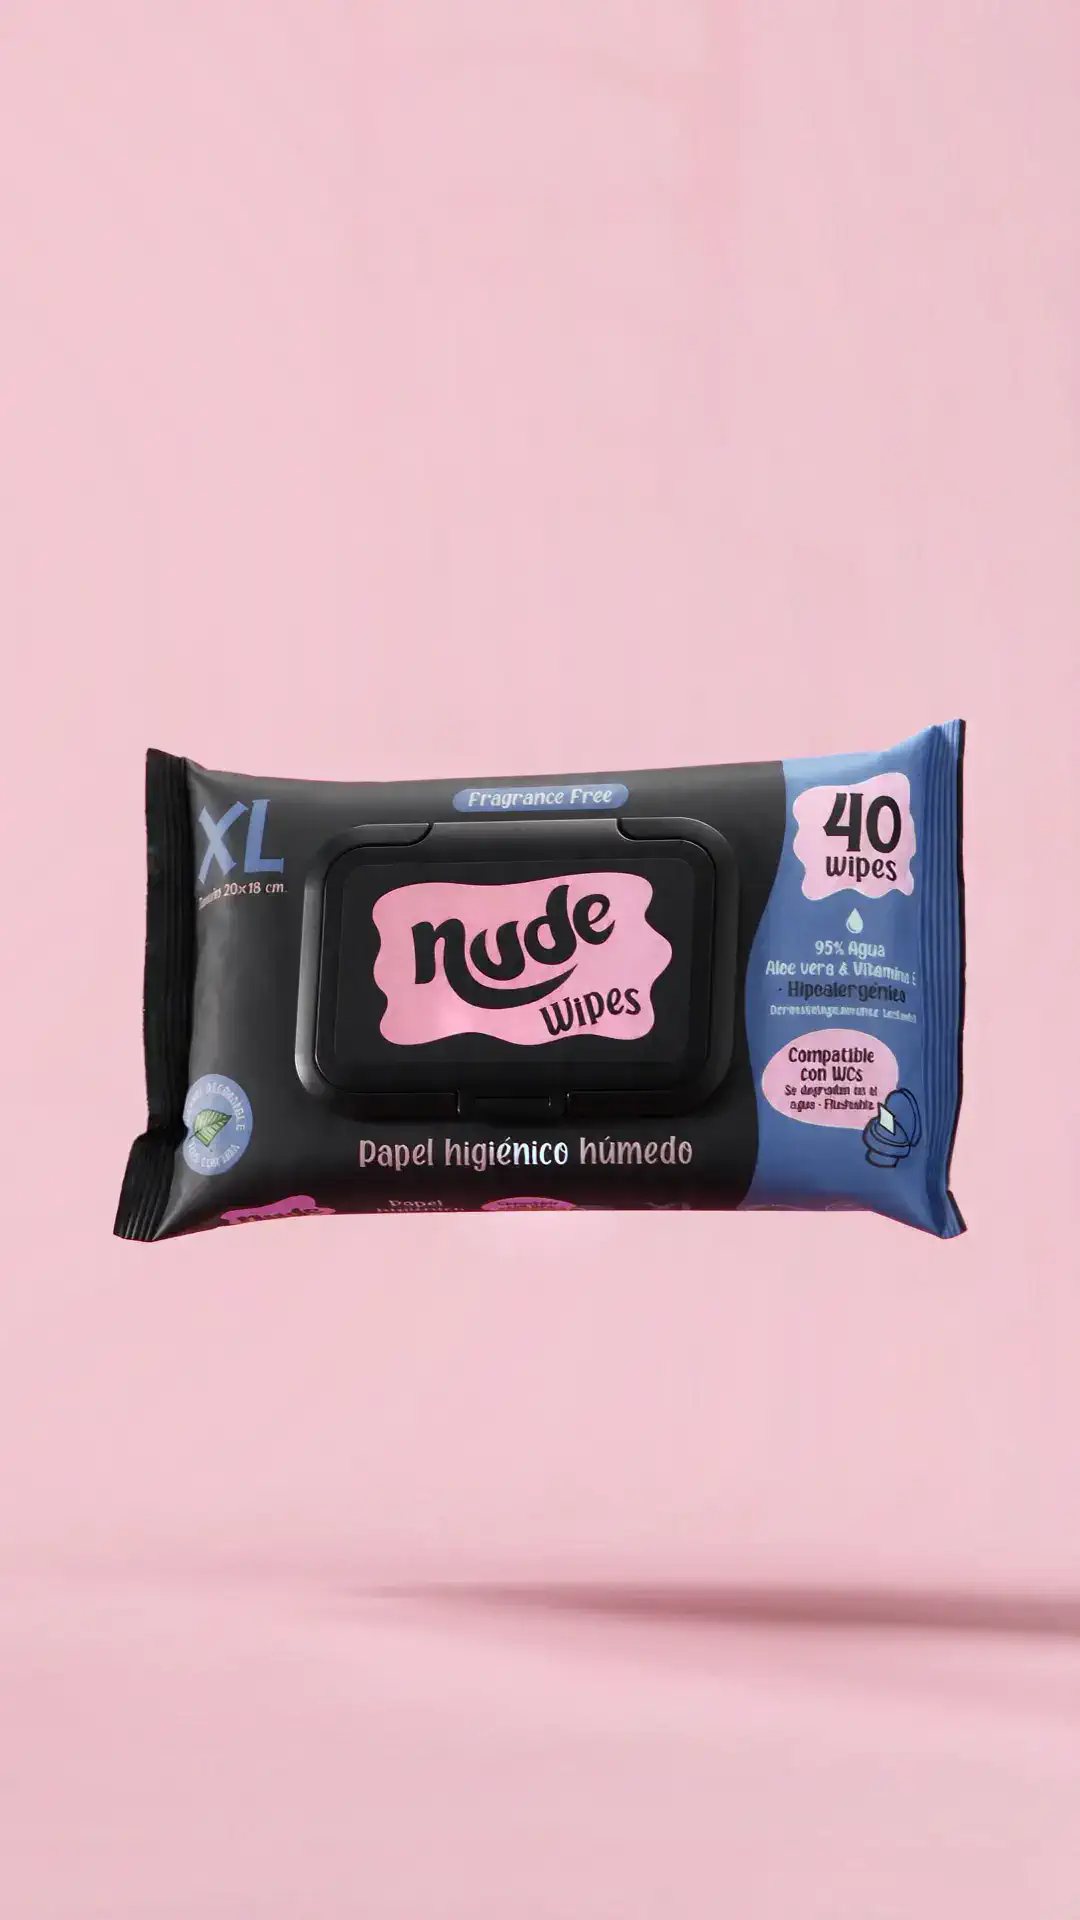
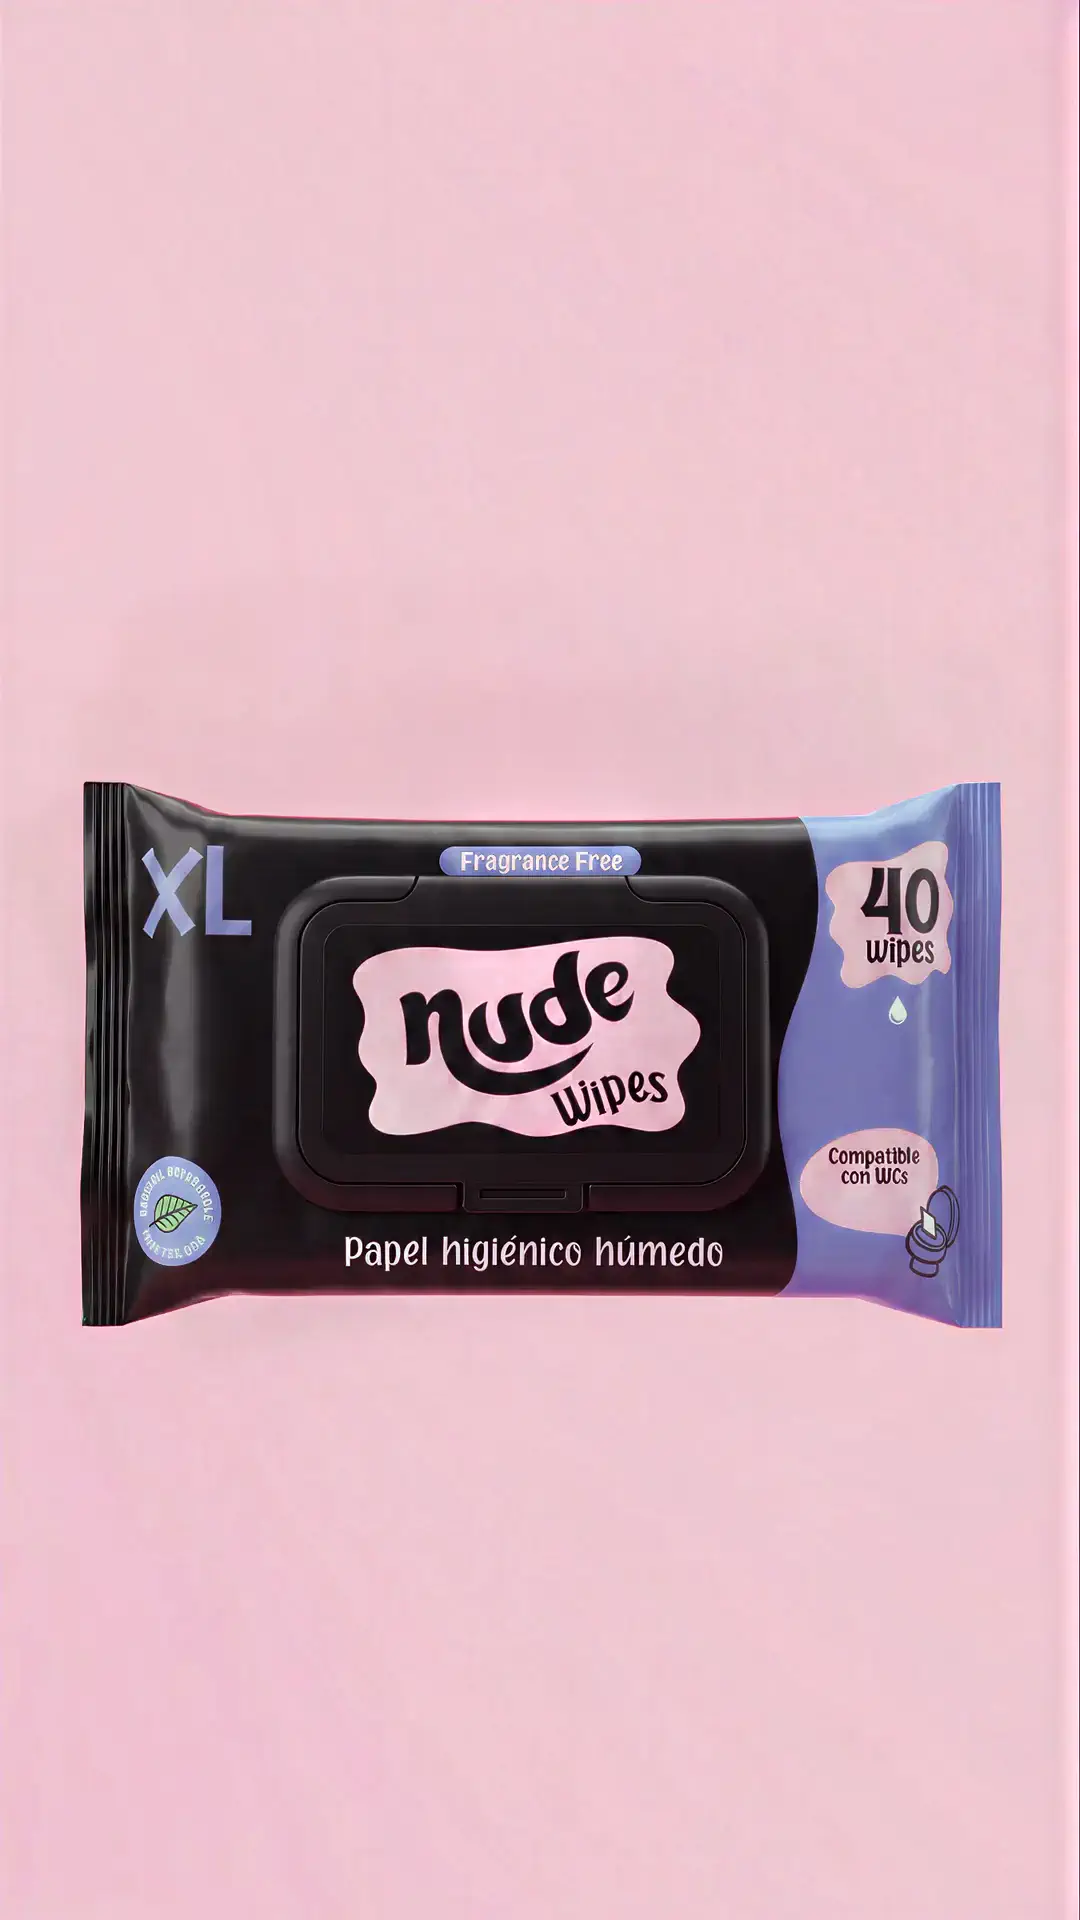
El póster del hero deja de mostrar un frame del video viejo
Charlie veía un frame de otro clip en cada recarga. El hero no arranca con
el canvas: primero muestra public/hero-poster.webp, que es el LCP y va
precargado. Ese archivo era del 28 de agosto, o sea del clip anterior, y
nadie lo regeneró al cambiar a nude9. Ahora sale del frame 1 de la secuencia
actual, ya corregido de color.

Y de paso, un bug más grave que salió buscando este. El póster se referenciaba
con ruta absoluta, /hero-poster.webp, que en un project page de GitHub Pages
apunta a la raíz del dominio y no a la del repo. Comprobado contra el sitio
publicado: charlie-pixelz.github.io/hero-poster.webp da 404 y
charlie-pixelz.github.io/nude-landing/hero-poster.webp da 200. O sea que en
producción el póster nunca cargaba y la precarga se gastaba en un 404,
mientras en localhost las dos rutas funcionan — que es exactamente por lo que
no se notó, y exactamente lo que CLAUDE.md advierte sobre este tema. El logo
tenía el mismo problema. Las dos pasan a relativas y el build ya sale con
./hero-poster.webp.

diff --git a/index.html b/index.html
@@ -6,14 +6,14 @@
   <title>NUDE · Papel higiénico húmedo · Chile</title>
   <meta name="description" content="Papel higiénico húmedo, se degrada en el agua. Ya está en Jumbo.">
   <meta name="robots" content="noindex">
-  <link rel="preload" as="image" href="/hero-poster.webp" fetchpriority="high">
+  <link rel="preload" as="image" href="./hero-poster.webp" fetchpriority="high">
 </head>
 <body>
 
 <header class="nav" id="nav">
   <div class="wrap nav-inner">
     <a class="nav-logo" href="#hero" aria-label="NUDE, inicio">
-      <img src="/src/assets/img/logo-negro.png" alt="NUDE">
+      <img src="./src/assets/img/logo-negro.png" alt="NUDE">
     </a>
     <nav class="nav-links" aria-label="Navegación principal">
       <a href="#como">Cómo se hace</a>
@@ -28,7 +28,7 @@
     <div class="hero-track">
       <div class="hero-sticky">
         <canvas class="hero-canvas" aria-hidden="true"></canvas>
-        <img class="hero-poster" src="/hero-poster.webp" alt="Pack de NUDE papel higiénico húmedo sobre fondo rosa">
+        <img class="hero-poster" src="./hero-poster.webp" alt="Pack de NUDE papel higiénico húmedo sobre fondo rosa">
         <!-- Dos zonas, no un bloque corrido. Medí la ocupación del producto
              cuadro a cuadro sobre el encuadre visible: las bandas superior
              (~33% del alto) e inferior (~17%) quedan libres de producto en
@@ -318,70 +318,70 @@
 
     <div class="galeria-escena">
       <ul class="galeria-lista">
-        <li style="--x1:11;--x2:16;--y1:4;--y2:10;--dx:0.0;--dy:-0.0;--foto:galeria-foto-1;--marco:url(#blob-1)">
+        <li style="--x1:11;--x2:16;--y1:4;--y2:10;--dx:0.0;--dy:0.0;--foto:galeria-foto-1;--marco:url(#blob-1)">
           <picture>
             <source media="(min-width: 760px)" srcset="./src/assets/img/galeria/pack-880.webp">
             <img src="./src/assets/img/galeria/pack-560.webp"
                  alt="Pack de NUDE de 40 unidades, visto de frente sobre fondo rosado." loading="lazy" decoding="async">
           </picture>
         </li>
-        <li style="--x1:6;--x2:11;--y1:1;--y2:6;--dx:-0.35;--dy:0.5;--foto:galeria-foto-0;--marco:url(#blob-2)">
+        <li style="--x1:6;--x2:11;--y1:1;--y2:6;--dx:-0.601;--dy:0.106;--foto:galeria-foto-0;--marco:url(#blob-2)">
           <picture>
             <source media="(min-width: 760px)" srcset="./src/assets/img/galeria/bano-880.webp">
             <img src="./src/assets/img/galeria/bano-560.webp"
                  alt="Una mano saca un paño del pack abierto, apoyado en un piso de madera junto al inodoro." loading="lazy" decoding="async">
           </picture>
         </li>
-        <li style="--x1:16;--x2:21;--y1:1;--y2:5;--dx:-0.4;--dy:-0.5;--foto:galeria-foto-2;--marco:url(#blob-3)">
+        <li style="--x1:16;--x2:21;--y1:1;--y2:5;--dx:0.071;--dy:-0.636;--foto:galeria-foto-2;--marco:url(#blob-3)">
           <picture>
             <source media="(min-width: 760px)" srcset="./src/assets/img/galeria/manos-880.webp">
             <img src="./src/assets/img/galeria/manos-560.webp"
                  alt="Dos manos sostienen el pack de 40 unidades frente a una pared de azulejos rosados." loading="lazy" decoding="async">
           </picture>
         </li>
-        <li style="--x1:6;--x2:11;--y1:6;--y2:13;--dx:0.25;--dy:0.5;--foto:galeria-foto-3;--marco:url(#blob-4)">
+        <li style="--x1:6;--x2:11;--y1:6;--y2:13;--dx:-0.177;--dy:0.53;--foto:galeria-foto-3;--marco:url(#blob-4)">
           <picture>
             <source media="(min-width: 760px)" srcset="./src/assets/img/galeria/cajas-xl-880.webp">
             <img src="./src/assets/img/galeria/cajas-xl-560.webp"
                  alt="Tres cajas XL de NUDE apiladas en diagonal sobre fondo rosado." loading="lazy" decoding="async">
           </picture>
         </li>
-        <li style="--x1:16;--x2:21;--y1:10;--y2:13;--dx:0.45;--dy:-0.5;--foto:galeria-foto-4;--marco:url(#blob-1)">
+        <li style="--x1:16;--x2:21;--y1:10;--y2:13;--dx:0.672;--dy:-0.035;--foto:galeria-foto-4;--marco:url(#blob-1)">
           <picture>
             <source media="(min-width: 760px)" srcset="./src/assets/img/galeria/tendedero-880.webp">
             <img src="./src/assets/img/galeria/tendedero-560.webp"
                  alt="Tres sachets de NUDE colgados con pinzas de un cordel, sobre fondo rosado." loading="lazy" decoding="async">
           </picture>
         </li>
-        <li style="--x1:16;--x2:21;--y1:5;--y2:10;--dx:0.05;--dy:-0.5;--foto:galeria-foto-0;--marco:url(#blob-2)">
+        <li style="--x1:16;--x2:21;--y1:5;--y2:10;--dx:0.389;--dy:-0.318;--foto:galeria-foto-0;--marco:url(#blob-2)">
           <picture>
             <source media="(min-width: 760px)" srcset="./src/assets/img/galeria/cabeza-880.webp">
             <img src="./src/assets/img/galeria/cabeza-560.webp"
                  alt="Una persona sostiene tres packs sobre su cabeza; del de arriba asoma un paño." loading="lazy" decoding="async">
           </picture>
         </li>
-        <li style="--x1:11;--x2:16;--y1:1;--y2:4;--dx:-0.45;--dy:-0.0;--foto:galeria-foto-4;--marco:url(#blob-3)">
+        <li style="--x1:11;--x2:16;--y1:1;--y2:4;--dx:-0.318;--dy:-0.318;--foto:galeria-foto-4;--marco:url(#blob-3)">
           <picture>
             <source media="(min-width: 760px)" srcset="./src/assets/img/galeria/duo-880.webp">
             <img src="./src/assets/img/galeria/duo-560.webp"
                  alt="Dos personas sostienen cada una una caja XL de NUDE." loading="lazy" decoding="async">
           </picture>
         </li>
-        <li style="--x1:11;--x2:16;--y1:10;--y2:13;--dx:0.45;--dy:-0.0;--foto:galeria-foto-4;--marco:url(#blob-4)">
+        <li style="--x1:11;--x2:16;--y1:10;--y2:13;--dx:0.318;--dy:0.318;--foto:galeria-foto-4;--marco:url(#blob-4)">
           <picture>
             <source media="(min-width: 760px)" srcset="./src/assets/img/galeria/bolsillo-880.webp">
             <img src="./src/assets/img/galeria/bolsillo-560.webp"
                  alt="Un sachet de NUDE asomando del bolsillo delantero de unos jeans." loading="lazy" decoding="async">
           </picture>
         </li>
-        <li style="--x1:21;--x2:26;--y1:2;--y2:12;--dx:0.0;--dy:-1.0;--foto:galeria-foto-5;--marco:url(#blob-1)">
+        <li style="--x1:21;--x2:26;--y1:2;--y2:12;--dx:0.707;--dy:-0.707;--foto:galeria-foto-5;--marco:url(#blob-1)">
           <picture>
             <source media="(min-width: 760px)" srcset="./src/assets/img/galeria/bolso-880.webp">
             <img src="./src/assets/img/galeria/bolso-560.webp"
                  alt="Una persona guarda un sachet de NUDE en un bolso cruzado." loading="lazy" decoding="async">
           </picture>
         </li>
-        <li style="--x1:1;--x2:6;--y1:2;--y2:12;--dx:0.0;--dy:1.0;--foto:galeria-foto-5;--marco:url(#blob-2)">
+        <li style="--x1:1;--x2:6;--y1:2;--y2:12;--dx:-0.707;--dy:0.707;--foto:galeria-foto-5;--marco:url(#blob-2)">
           <picture>
             <source media="(min-width: 760px)" srcset="./src/assets/img/galeria/gimnasio-880.webp">
             <img src="./src/assets/img/galeria/gimnasio-560.webp"
@@ -567,7 +567,7 @@
   <div class="wrap">
     <div class="pie-grid">
       <div class="pie-marca">
-        <img src="/src/assets/img/logo-negro.png" alt="NUDE" class="pie-logo">
+        <img src="./src/assets/img/logo-negro.png" alt="NUDE" class="pie-logo">
         <p class="pie-linea">Papel higiénico húmedo.</p>
       </div>
       <nav class="pie-col" aria-label="Secciones del sitio">
